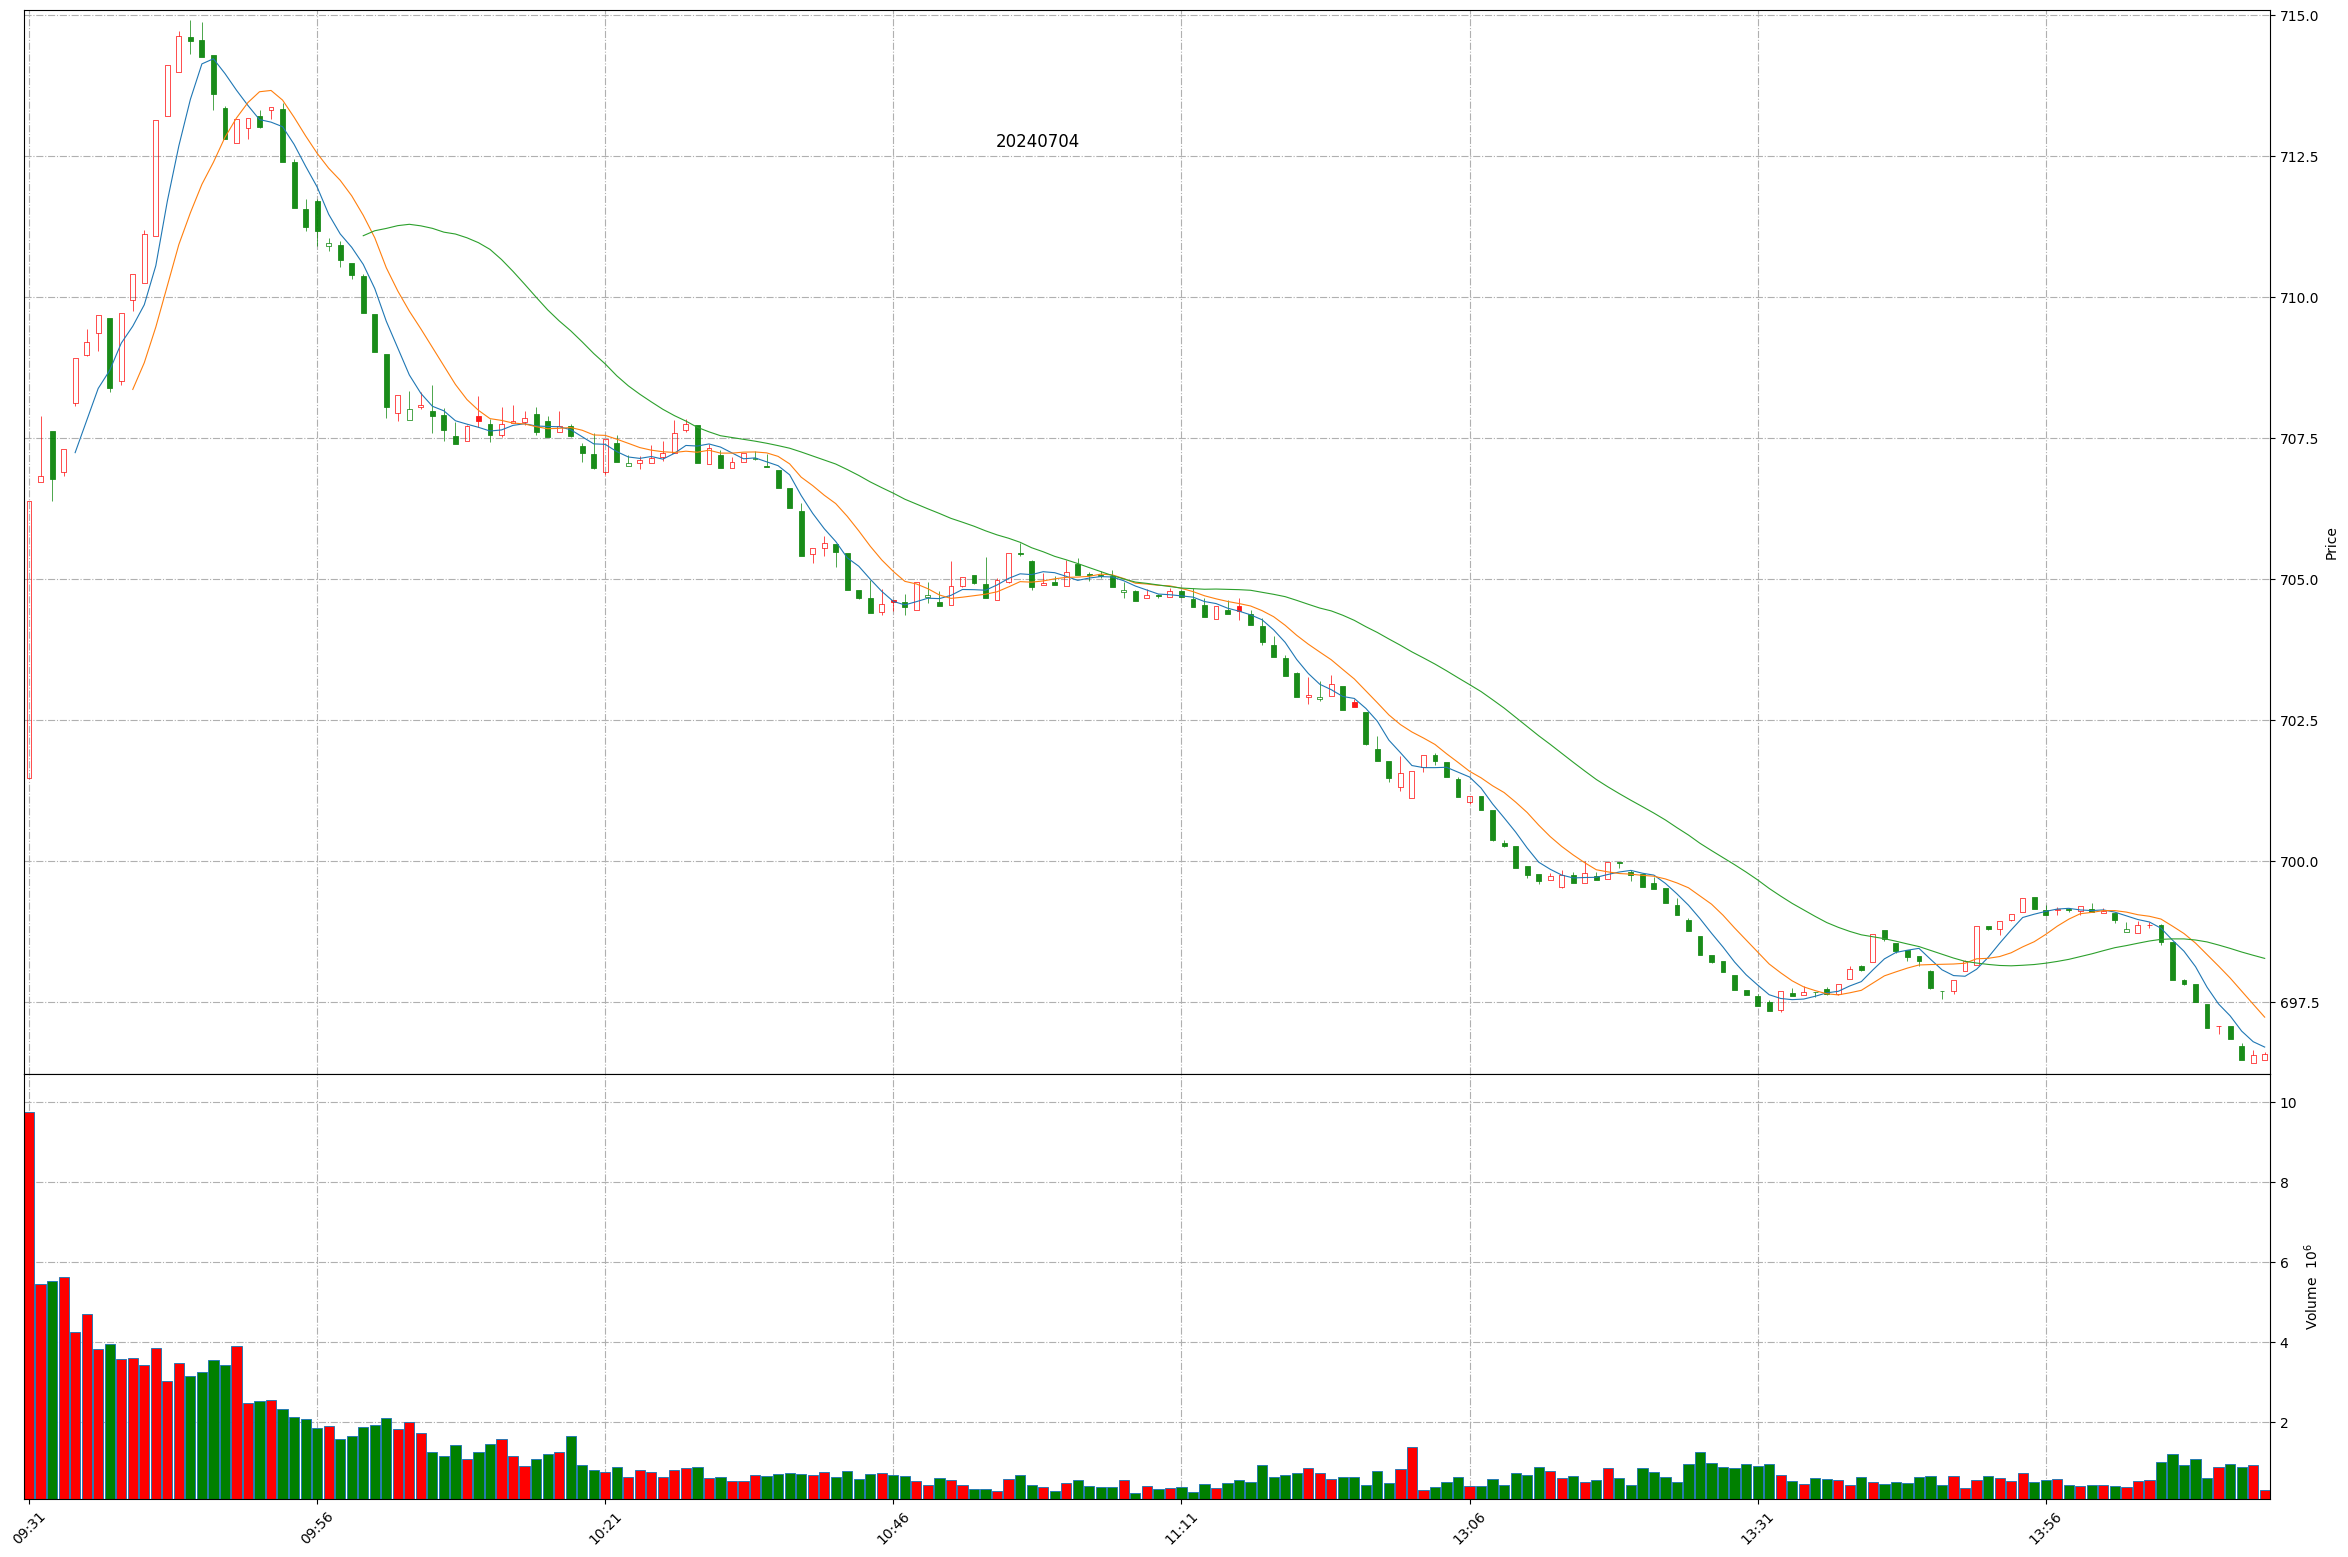
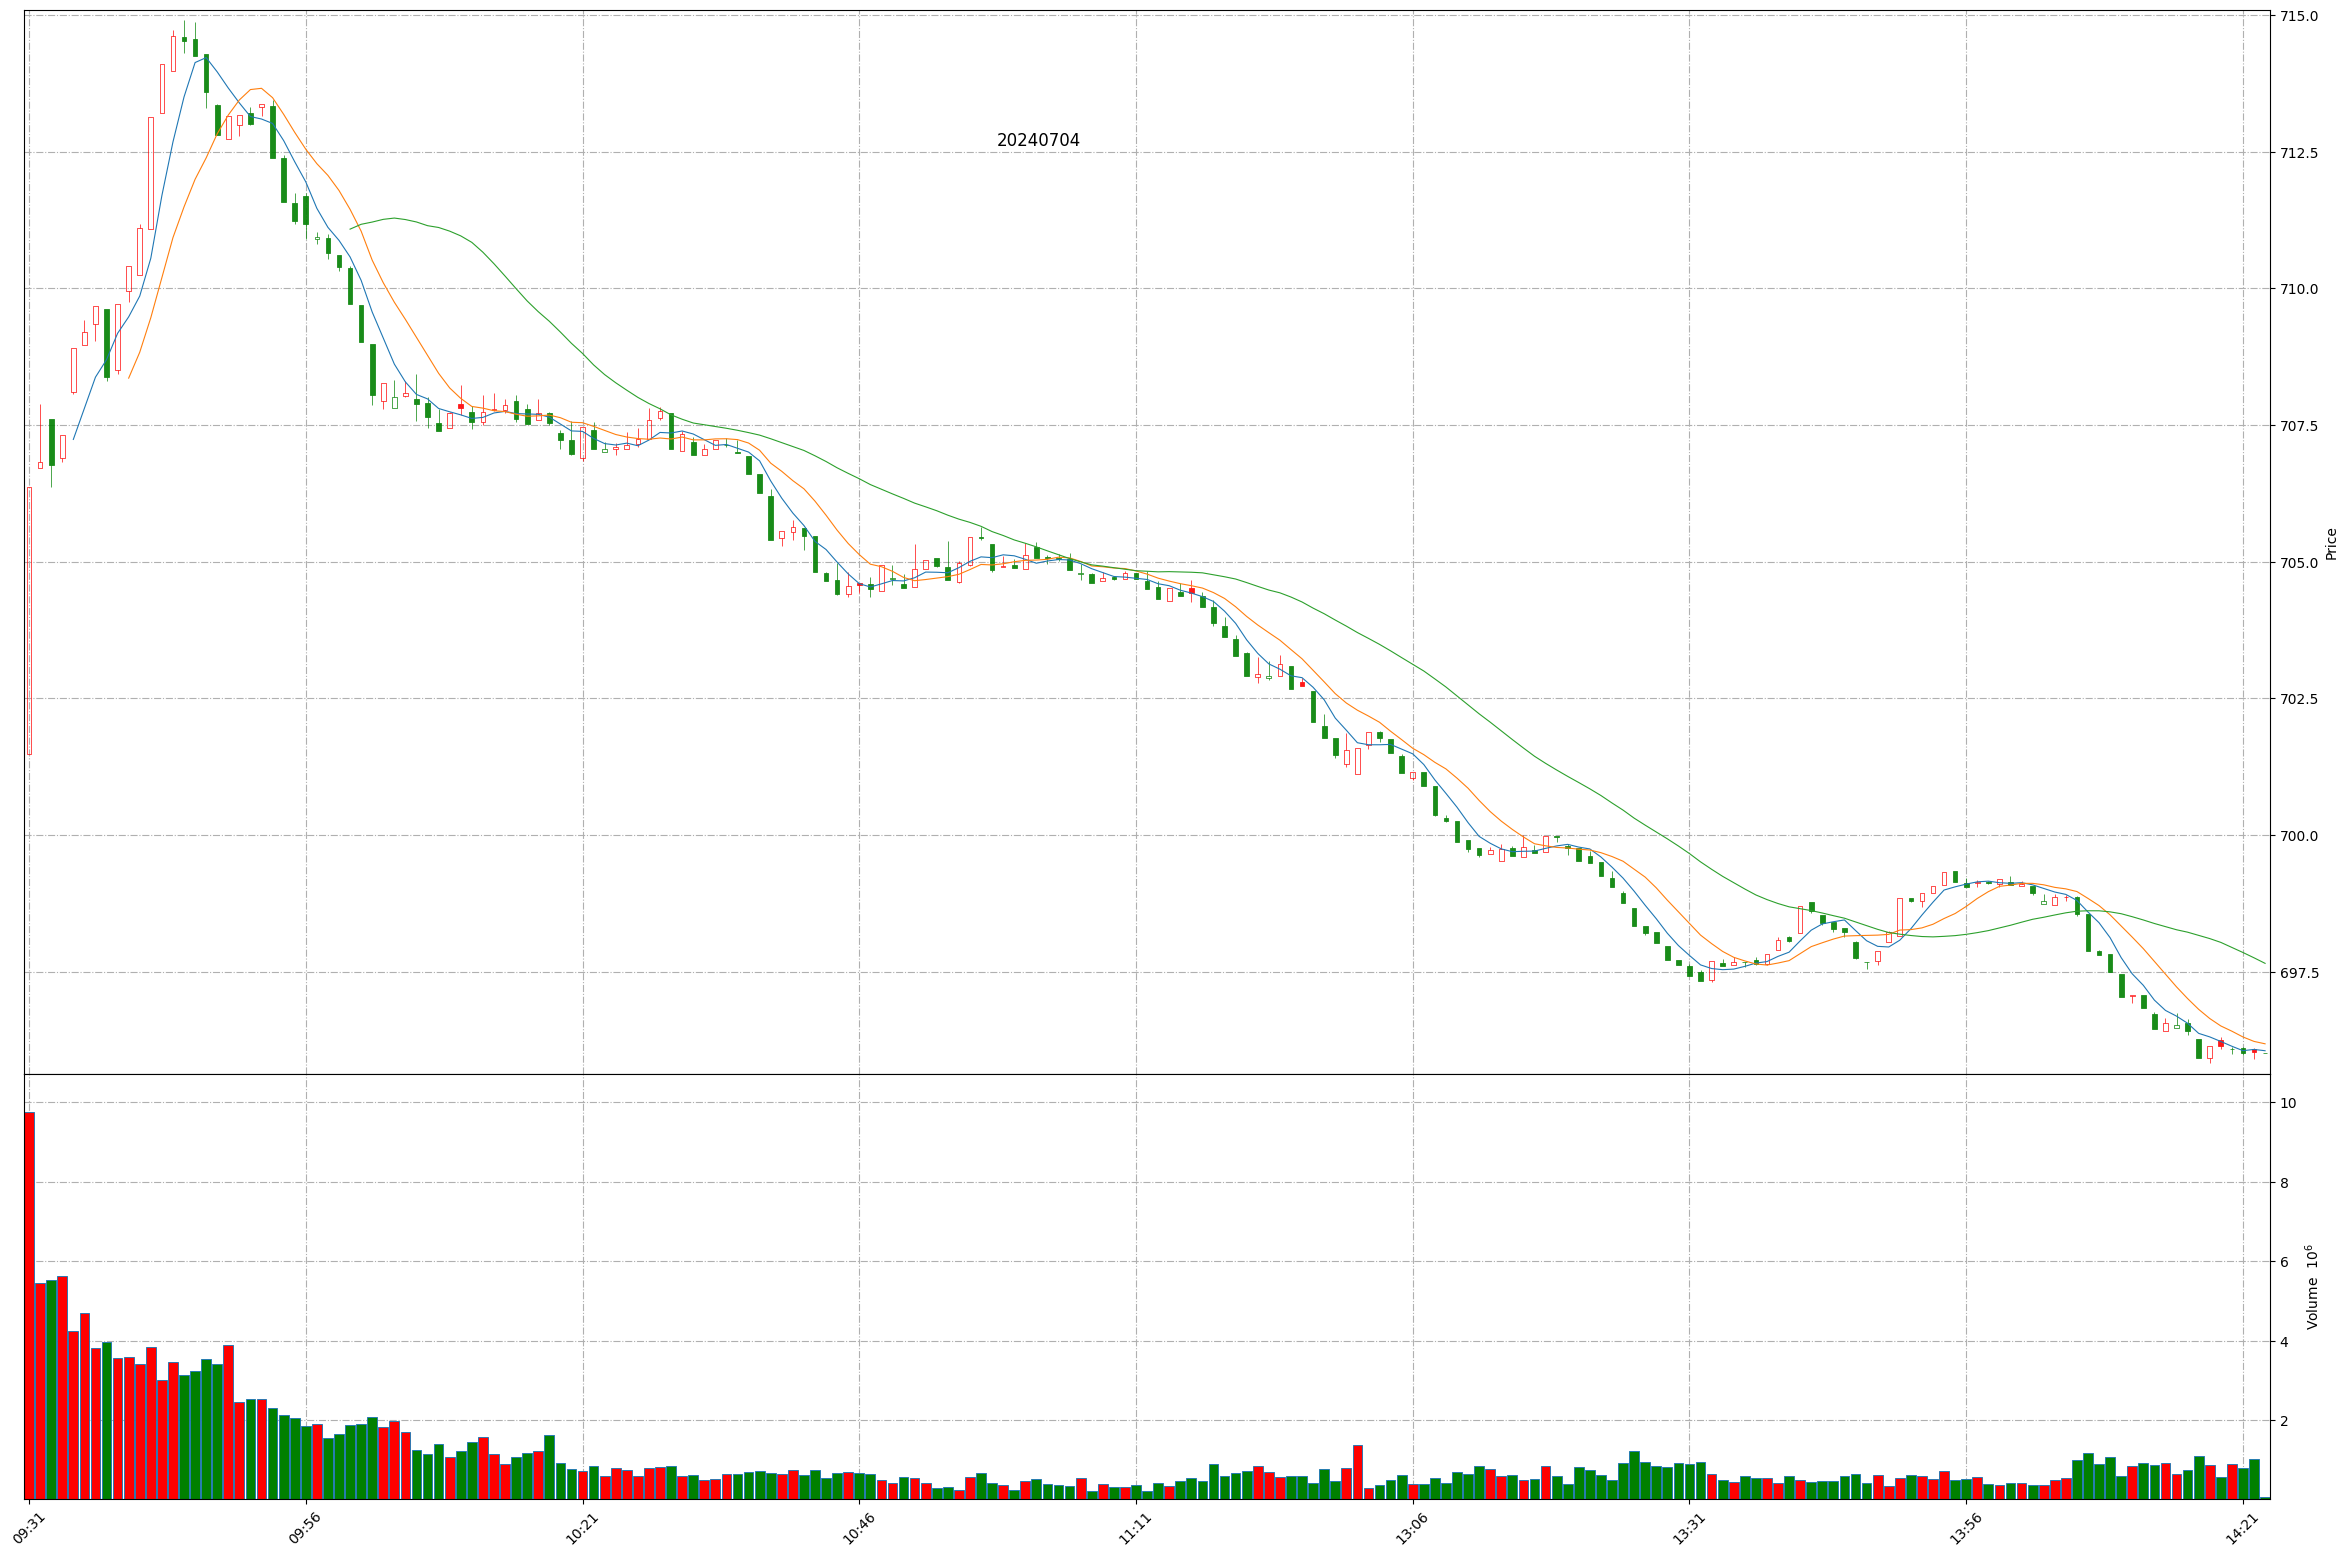
Github action update at 2024-07-04 14:22:16.

diff --git a/README.md b/README.md
@@ -1,11 +1,11 @@
 
 # Daily-A-share-market-quotes 每日 A 股指数（5min 更新）- 20240704
 
-### 上证指数 20240704 14:14
+### 上证指数 20240704 14:22
 ![](./fig/2024/7/20240704-sh000001.png)
 
-### 深证成指 20240704 14:14
+### 深证成指 20240704 14:22
 ![](./fig/2024/7/20240704-sz399001.png)
 
-### 北证50 20240704 14:14
+### 北证50 20240704 14:22
 ![](./fig/2024/7/20240704-bj899050.png)
